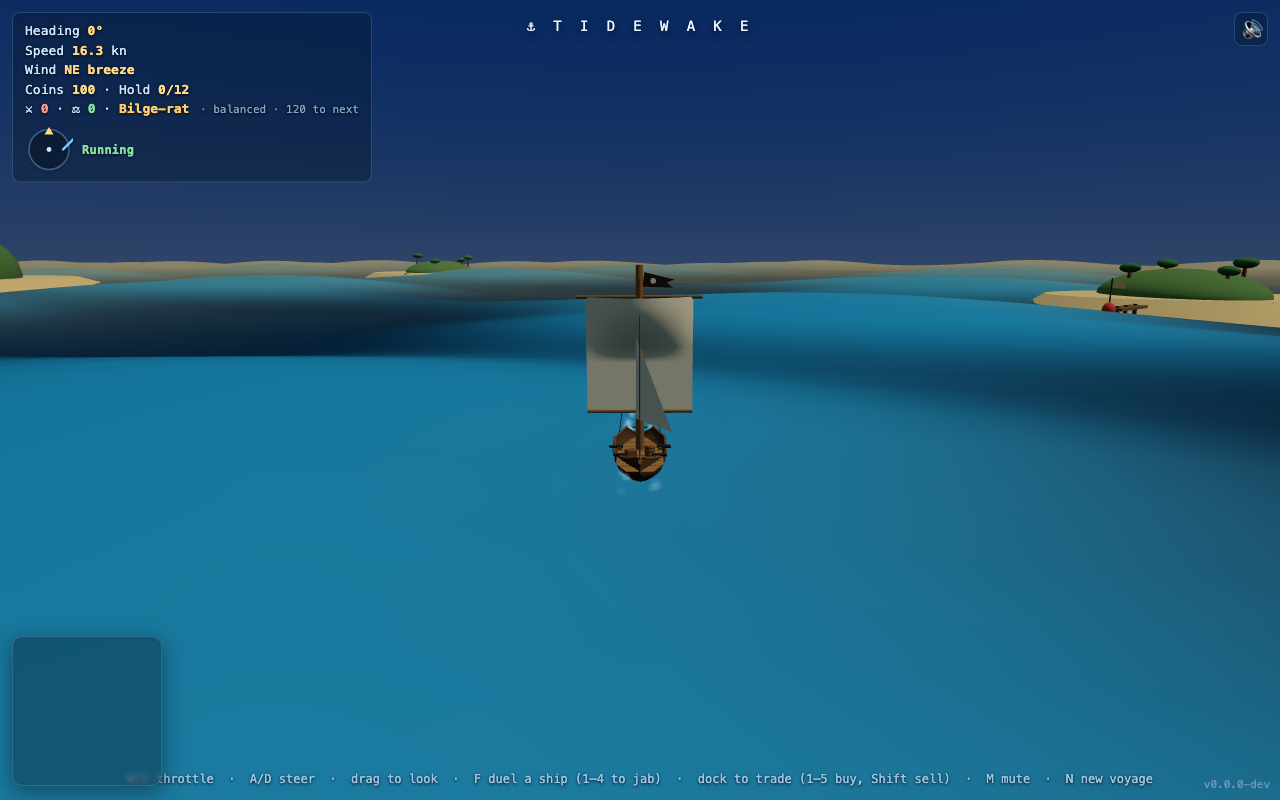
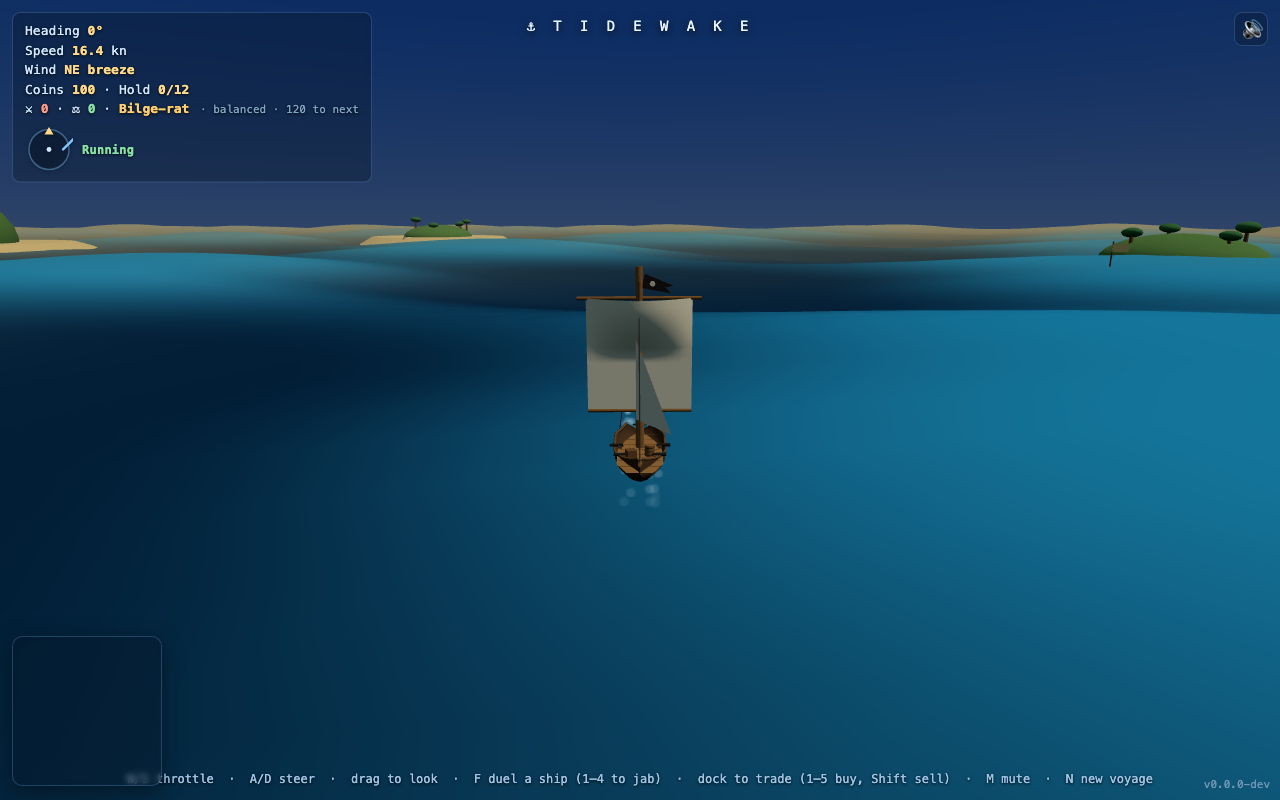
feat(progression): endgame legends — crown THE Terror / THE Governor (#46)
The payoff of the two-pole renown arc: cross the top rung of a committed
pole and you are crowned a one-time LEGEND with a celebratory full-screen
beat — THE Terror of the Tidewake (feared) or THE Governor of the Tidewake
(respected). A balanced summit earns neither until you lean; earn both
crowns over a voyage for a true Legend of the Tidewake. The sandbox keeps
sailing after — a milestone, not a game-over.

- renown.js: pure earnedLegend(infamy, standing) + LEGEND_AT + LEGENDS data
- save.js: SAVE_VERSION 5 persists the {pirate, governor} crowns; old saves
  default to none; junk legends fail open
- sailing.js: restore/reset wire the crowns
- main.js: per-frame detection fires the beat once per newly-earned crown,
  locks it into the save, exposes state.legends on the __tidewake hook
- hud.js + index.html: the proclamation overlay + a persistent corner badge

Closes #46

diff --git a/src/renown.js b/src/renown.js
@@ -7,10 +7,12 @@
 // on the ladder; the *dominant pole* picks which titles that rung reads (piratical vs
 // civic), and how harbourmasters react when you make port (feared vs respected).
 //
-// ENDGAME SEAM (not built yet): the very top of each pole is the fantasy's payoff —
-// become THE feared pirate (Terror of the Tidewake) or THE respected governor (Governor
-// of the Tidewake). A future slice can turn those top rungs into real milestone events
-// (a coronation / a bounty, a win-state). For now they're just the proudest titles.
+// ENDGAME (#46): the very top of each pole IS the fantasy's payoff — become THE feared
+// pirate (Terror of the Tidewake) or THE respected governor (Governor of the Tidewake).
+// Crossing the top rung of a committed pole crowns a one-time LEGEND (earnedLegend +
+// LEGENDS below); main.js fires a celebratory beat and the save remembers it. The world
+// keeps sailing after — a legend milestone, not a game-over. FUTURE: deeper endings could
+// branch off a legend (e.g. a governorship of a *specific* city, a named bounty arc).
 
 // The ladder. Thresholds are lifetime-renown (= infamy + standing) gates; the RANKS
 // titles are the canonical spine kept for back-compat. Per-pole titles live in LADDERS
@@ -212,6 +214,60 @@ export function greetPlayer(renown, portName, rnd = Math.random, pole = 'neutral
   const title = ladder[index] || ladder[ladder.length - 1];
   const line = pool[Math.floor(rnd() * pool.length) % pool.length] || pool[0];
   return line.replace(/\{port\}/g, portName).replace(/\{title\}/g, title);
+}
+
+// ---- Endgame legends: the payoff of the two-pole arc (#46) ------------------
+// The very top rung of the ladder is the summit of legend. Reach it while COMMITTED to a
+// pole (the dominant pole picks WHICH crown) and you become THE one: the feared Terror or
+// the respected Governor of the Tidewake. A balanced captain sits at the neutral summit
+// ("Legend of the Tidewake") but earns neither single crown until they lean — earn BOTH
+// crowns across a voyage and you are, fittingly, a true Legend of the Tidewake.
+
+// Lifetime-renown gate for a legend: the top rung's threshold (= infamy + standing).
+export const LEGEND_AT = RANKS[RANKS.length - 1].at;
+
+// The two crowns — each the top of its pole ladder, with a believable proclamation and a
+// wink of comedy. Original to Tidewake. main.js/hud.js read these for the celebration beat.
+export const LEGENDS = {
+  pirate: {
+    title: 'Terror of the Tidewake',
+    icon: '⚔',
+    proclaim: 'Feared in every port from here to the horizon.',
+    flourish: 'Mothers now name storms after you. The storms are flattered.',
+  },
+  governor: {
+    title: 'Governor of the Tidewake',
+    icon: '⚖',
+    proclaim: 'The isles, with one voice, proclaim you their own.',
+    flourish: 'A commemorative biscuit has been struck in your honour — and is, by all accounts, edible.',
+  },
+};
+
+/**
+ * The celebration data for a freshly-earned legend, or null for an unknown pole.
+ * @param {'pirate'|'governor'} which
+ * @returns {{title:string, icon:string, proclaim:string, flourish:string} | null}
+ */
+export function legendBeat(which) {
+  return LEGENDS[which] || null;
+}
+
+/**
+ * Which legend(s) a ledger qualifies for RIGHT NOW. A point-in-time check: at any instant
+ * the dominant pole crowns at most one, so the caller ORs the result into a persistent
+ * flags object to accumulate both crowns over a voyage. Pure + junk-safe.
+ * @param {number} infamy   pirate-path score
+ * @param {number} standing governor-path score
+ * @returns {{pirate:boolean, governor:boolean}}
+ */
+export function earnedLegend(infamy, standing) {
+  const i = poleScore(infamy), s = poleScore(standing);
+  const atTop = (i + s) >= LEGEND_AT;
+  const pole = dominantPole(i, s);
+  return {
+    pirate: atTop && pole === 'pirate',
+    governor: atTop && pole === 'governor',
+  };
 }
 
 /**

diff --git a/src/hud.js b/src/hud.js
@@ -5,7 +5,7 @@
 import { pointOfSail } from './physics.js';
 import { VERSION } from './version.js';
 import { GOODS, PORTS, HOLD_CAP, market, buy, sell, cargoUsed } from './economy.js';
-import { rankForRenown, renownTier, titleFor, dominantPole } from './renown.js';
+import { rankForRenown, renownTier, titleFor, dominantPole, legendBeat } from './renown.js';
 
 const RAD2DEG = 180 / Math.PI;
 
@@ -25,6 +25,8 @@ export function createHud() {
   const $trade = document.getElementById('trade');
   const $duel = document.getElementById('duel');
   const $prompt = document.getElementById('challenge-prompt');
+  const $legend = document.getElementById('legend');
+  const $legendBadge = document.getElementById('legend-badge');
   document.getElementById('version').textContent = VERSION;
 
   let lastPosLabel = '', lastPosBand = '';
@@ -218,9 +220,65 @@ export function createHud() {
     toastTimer = setTimeout(() => { $toast.classList.remove('show'); $toast.classList.remove('rankup'); }, 5000);
   }
 
+  // ---- Endgame legend overlay (#46) -----------------------------------------
+  // The payoff beat: a near-full-screen proclamation crowning the player THE Terror /
+  // THE Governor — believable grandeur with a wink of comedy. Fired once per newly-earned
+  // crown; the sandbox keeps playing beneath it. Dismiss with any key (or it fades on its
+  // own). A persistent corner badge then remembers the crown.
+  let legendTimer = null;
+  function hideLegend() {
+    if (!$legend) return;
+    $legend.classList.remove('show');
+    if (legendTimer) { clearTimeout(legendTimer); legendTimer = null; }
+  }
+  function showLegend(pole, stats = {}) {
+    const beat = legendBeat(pole);
+    if (!$legend || !beat) return;
+    const crown = `${beat.icon} You are now THE ${beat.title.toUpperCase()}`;
+    const both = stats.both
+      ? '<div class="legend-both">⚔⚖ Feared AND respected — a true Legend of the Tidewake. The bards have simply given up keeping score.</div>'
+      : '';
+    $legend.innerHTML =
+      `<div class="legend-card">`
+      + `<div class="legend-kicker">A LEGEND IS MADE</div>`
+      + `<div class="legend-title">${crown}</div>`
+      + `<div class="legend-proclaim">${beat.proclaim}</div>`
+      + `<div class="legend-flourish">${beat.flourish}</div>`
+      + both
+      + `<div class="legend-stats">⚔ Infamy ${stats.infamy ?? 0} · ⚖ Standing ${stats.standing ?? 0} · ★ Renown ${stats.renown ?? 0} · ⛃ ${stats.coins ?? 0}c · ${stats.title || beat.title}</div>`
+      + `<div class="legend-help">The sea is still yours — press <b>any key</b> to sail on, or <b>N</b> for a new voyage</div>`
+      + `</div>`;
+    $legend.classList.add('show');
+    if (legendTimer) clearTimeout(legendTimer);
+    legendTimer = setTimeout(hideLegend, 12000);
+  }
+  if (typeof window !== 'undefined' && window.addEventListener) {
+    window.addEventListener('keydown', () => { if ($legend && $legend.classList.contains('show')) hideLegend(); });
+  }
+
+  // Persistent corner badge: once a crown is earned it stays shown in the HUD.
+  let lastBadgeSig = '';
+  function renderLegendBadge(state) {
+    if (!$legendBadge) return;
+    const lg = state.legends || {};
+    const earned = [];
+    if (lg.pirate) earned.push(legendBeat('pirate'));
+    if (lg.governor) earned.push(legendBeat('governor'));
+    const sig = earned.map((e) => e.title).join('+');
+    if (sig === lastBadgeSig) return;
+    lastBadgeSig = sig;
+    if (!earned.length) { $legendBadge.classList.remove('show'); $legendBadge.textContent = ''; return; }
+    const label = earned.length === 2
+      ? '★ Legend of the Tidewake'
+      : `${earned[0].icon} Legend: ${earned[0].title}`;
+    $legendBadge.textContent = label;
+    $legendBadge.classList.add('show');
+  }
+
   function update(state, maxSpeed) {
     liveState = state;
     renderPurse(state);
+    renderLegendBadge(state);
     renderTrade(state);
 
     let deg = Math.round((state.heading * 180 / Math.PI) % 360); if (deg < 0) deg += 360;
@@ -235,5 +293,5 @@ export function createHud() {
     if (sail.band !== lastPosBand) { $pos.className = 'pos-' + sail.band; lastPosBand = sail.band; }
   }
 
-  return { update, showArrival, setWind, renderDuel, flashBanner };
+  return { update, showArrival, setWind, renderDuel, flashBanner, showLegend };
 }

diff --git a/index.html b/index.html
@@ -27,6 +27,39 @@
     #ledger #rankprog { color: #7fa6c6; font-size: 11px; margin-left: 4px; }
     #toast.rankup { border-color: rgba(135,224,164,.6); }
     #toast.rankup .toast-title { color: #9be8b0; }
+    #legend-badge {
+      margin-top: 6px; display: none; font-size: 11px; letter-spacing: .03em;
+      color: #2a1d06; background: linear-gradient(90deg, #ffe08a, #ffc24d);
+      border: 1px solid rgba(255,233,160,.8); border-radius: 6px; padding: 2px 8px;
+      font-weight: 700; box-shadow: 0 1px 6px rgba(0,0,0,.35); width: fit-content;
+    }
+    #legend-badge.show { display: block; }
+    #legend {
+      position: fixed; inset: 0; z-index: 30; display: grid; place-items: center;
+      pointer-events: none; text-align: center; padding: 24px;
+      background: radial-gradient(circle at 50% 42%, rgba(20,44,66,.78), rgba(6,16,26,.92) 75%);
+      opacity: 0; transition: opacity .5s ease;
+    }
+    #legend.show { opacity: 1; }
+    #legend .legend-card {
+      max-width: min(92vw, 620px);
+      background: rgba(9, 22, 36, .72); border: 1px solid rgba(255,217,138,.55);
+      border-radius: 16px; padding: 28px 32px; backdrop-filter: blur(6px);
+      box-shadow: 0 18px 60px rgba(0,0,0,.6), 0 0 0 1px rgba(255,217,138,.15) inset;
+      transform: translateY(10px) scale(.98); transition: transform .5s ease;
+    }
+    #legend.show .legend-card { transform: translateY(0) scale(1); }
+    #legend .legend-kicker { color: #ffd98a; letter-spacing: .5em; font-size: 11px; opacity: .85; }
+    #legend .legend-title {
+      margin-top: 10px; color: #fff3d4; font-size: clamp(20px, 3.4vw, 32px); font-weight: 800;
+      letter-spacing: .04em; line-height: 1.2; text-shadow: 0 2px 18px rgba(255,200,110,.45);
+    }
+    #legend .legend-proclaim { margin-top: 12px; color: #eaf6ff; font-size: 15px; font-style: italic; line-height: 1.5; }
+    #legend .legend-flourish { margin-top: 10px; color: #bcd5ea; font-size: 13px; line-height: 1.5; }
+    #legend .legend-both { margin-top: 12px; color: #9be8b0; font-size: 13px; line-height: 1.5; font-weight: 600; }
+    #legend .legend-stats { margin-top: 16px; color: #ffd98a; font-size: 12px; letter-spacing: .02em; }
+    #legend .legend-help { margin-top: 16px; color: #9fc4e6; font-size: 12px; }
+    #legend .legend-help b { color: #ffd98a; }
     #windrose { display: flex; align-items: center; gap: 9px; margin-top: 7px; }
     #windrose svg { display: block; filter: drop-shadow(0 1px 2px rgba(0,0,0,.6)); }
     #pos { font-size: 12px; font-weight: 600; letter-spacing: .02em; transition: color .3s ease; }
@@ -146,6 +179,7 @@
     <div>Wind <b><span id="wind">—</span></b></div>
     <div>Coins <b><span id="coins">100</span></b> · Hold <b><span id="cargo">0/12</span></b></div>
     <div id="ledger" title="⚔ Infamy (pirate path) · ⚖ Standing (governor path)">⚔ <b><span id="infamy">0</span></b> · ⚖ <b><span id="standing">0</span></b> · <b><span id="rank">Bilge-rat</span></b><span id="rankprog"></span></div>
+    <div id="legend-badge" role="status"></div>
     <div id="windrose">
       <svg width="48" height="48" viewBox="0 0 48 48" aria-label="Wind relative to ship">
         <circle cx="24" cy="24" r="20" fill="rgba(7,22,38,.35)" stroke="rgba(120,180,230,.45)" stroke-width="1.5" />
@@ -165,6 +199,7 @@
   <div id="challenge-prompt" role="status">⚔ Press <b>F</b> to hail and duel</div>
   <div id="duel" role="dialog" aria-live="polite"></div>
   <div id="toast" role="status" aria-live="polite"></div>
+  <div id="legend" role="dialog" aria-live="polite"></div>
   <canvas id="minimap" width="150" height="150" aria-label="Minimap of nearby islands, ports and ships"></canvas>
   <button id="audio-toggle" type="button" aria-pressed="false" aria-label="Mute" title="Mute (m)">🔊</button>
   <div id="help">W/S throttle &nbsp;·&nbsp; A/D steer &nbsp;·&nbsp; drag to look &nbsp;·&nbsp; F duel a ship (1–4 to jab) &nbsp;·&nbsp; dock to trade (1–5 buy, Shift sell) &nbsp;·&nbsp; M mute &nbsp;·&nbsp; N new voyage</div>

diff --git a/src/main.js b/src/main.js
@@ -15,7 +15,7 @@ import { createPersistence } from './persistence.js';
 import { createDuel } from './duel.js';
 import { initEconomy, syncRenown } from './economy.js';
 import { VERSION } from './version.js';
-import { greetPlayer, dominantPole, titleFor } from './renown.js';
+import { greetPlayer, dominantPole, titleFor, earnedLegend } from './renown.js';
 
 // main.js is a thin bootstrap: it builds the renderer/scene/camera/lights, spins up
 // the world + game systems (input, sailing, hud, ports, wake, audio, persistence),
@@ -133,10 +133,35 @@ function update(dt, t) {
   ports.update(state, hud.showArrival, t);     // arrival detection (fires once) + buoy bob
   wake.update(dt, state, t);                   // bow wake + trailing foam
   hud.update(state, sailing.MAX_SPEED);        // heading/speed/wind compass/point-of-sail
+  checkLegends();                              // endgame payoff: crown a new legend once (#46)
   minimap.update(state);                       // north-up radar: isles/ports/ships (#16)
   hud.renderDuel(duel.snapshot());             // insult-duel panel + "hail" prompt (#33)
   audio.update({ speed: state.speed, maxSpeed: sailing.MAX_SPEED });
   music.update({ speed: state.speed, maxSpeed: sailing.MAX_SPEED });
+}
+
+// Endgame legends (#46): each frame, see if the ledger has just crossed the top of a
+// committed pole. The first time it does, crown the player THE Terror / THE Governor with
+// a one-time celebratory overlay, lock the crown into the save, and sail on (sandbox
+// continues — this is a milestone, not a game-over). Earn both, over a voyage, for a true
+// Legend of the Tidewake.
+function checkLegends() {
+  const legends = state.legends || (state.legends = { pirate: false, governor: false });
+  const earned = earnedLegend(state.infamy ?? 0, state.standing ?? 0);
+  for (const pole of ['pirate', 'governor']) {
+    if (earned[pole] && !legends[pole]) {
+      legends[pole] = true;
+      hud.showLegend(pole, {
+        infamy: state.infamy ?? 0,
+        standing: state.standing ?? 0,
+        renown: state.renown ?? ((state.infamy ?? 0) + (state.standing ?? 0)),
+        coins: state.coins ?? 0,
+        title: titleFor(state.infamy ?? 0, state.standing ?? 0).title,
+        both: legends.pirate && legends.governor,
+      });
+      persistence.write(); // lock the legend in the moment it's earned
+    }
+  }
 }
 
 let simT = 0;
@@ -171,6 +196,8 @@ window.__tidewake = {
       infamy, standing, renown: state.renown ?? (infamy + standing),
       title: titleFor(infamy, standing).title,
       pole: dominantPole(infamy, standing),
+      // Endgame crowns (#46): which legends this voyage has earned.
+      legends: { pirate: !!state.legends?.pirate, governor: !!state.legends?.governor },
     };
   },
   get ports() { return ports.ports; },

diff --git a/src/save.js b/src/save.js
@@ -17,9 +17,10 @@ import { GOODS, HOLD_CAP, START_COINS } from './economy.js';
 
 export const SAVE_KEY = 'tidewake.save.v1';
 // v2 added the economy fields (coins + cargo); v3 added renown (the Captain's Ledger);
-// v4 split renown into two poles — infamy (pirate) + standing (governor) (#45).
+// v4 split renown into two poles — infamy (pirate) + standing (governor) (#45); v5 added
+// the earned endgame legends ({pirate, governor} crowns, #46).
 // Older saves fail the version gate and fall back to a fresh voyage rather than crashing.
-export const SAVE_VERSION = 4;
+export const SAVE_VERSION = 5;
 
 // The set of canonical cargo keys we'll accept back from storage. Anything else is
 // treated as corrupt — cargo keys are a single source of truth in economy.js.
@@ -68,6 +69,10 @@ export function serialize(state) {
   // pre-pole caller. Renown is derived (infamy + standing) on load, so it isn't stored.
   const infamy = isFiniteNumber(state.infamy) && state.infamy >= 0 ? state.infamy : 0;
   const standing = isFiniteNumber(state.standing) && state.standing >= 0 ? state.standing : 0;
+  // Endgame legends (#46): the earned crowns. Plain booleans, coerced; a pre-legend
+  // caller (no `legends`) simply records none earned.
+  const lg = state.legends || {};
+  const legends = { pirate: !!lg.pirate, governor: !!lg.governor };
   return JSON.stringify({
     v: SAVE_VERSION,
     heading: state.heading,
@@ -78,6 +83,7 @@ export function serialize(state) {
     cargo: cleanCargoForSave(state.cargo),
     infamy,
     standing,
+    legends,
   });
 }
 
@@ -142,6 +148,12 @@ export function deserialize(raw) {
     standing = obj.standing;
   }
 
+  // Endgame legends (save v5): the earned crowns, coerced to safe booleans. Absent or
+  // malformed → none earned; a junk `legends` never rejects an otherwise-valid save (the
+  // legend is a celebration flag, not load-bearing physics — fail open, not closed).
+  const lg = (obj.legends && typeof obj.legends === 'object' && !Array.isArray(obj.legends)) ? obj.legends : {};
+  const legends = { pirate: !!lg.pirate, governor: !!lg.governor };
+
   return {
     heading,
     speed: Math.max(0, speed),
@@ -151,6 +163,7 @@ export function deserialize(raw) {
     cargo: cleanCargo,
     infamy,
     standing,
+    legends,
     renown: infamy + standing, // derived spine, for any caller that still reads it
   };
 }

diff --git a/src/sailing.js b/src/sailing.js
@@ -32,6 +32,11 @@ export function createSailing({ ship, ocean, camera, input }) {
     if (typeof saved.infamy === 'number') state.infamy = saved.infamy;
     if (typeof saved.standing === 'number') state.standing = saved.standing;
     state.renown = (state.infamy || 0) + (state.standing || 0);
+    // Endgame legends (persisted since save v5): the earned crowns, so a restored voyage
+    // keeps its badge and never re-fires a celebration it already had (#46).
+    if (saved.legends && typeof saved.legends === 'object') {
+      state.legends = { pirate: !!saved.legends.pirate, governor: !!saved.legends.governor };
+    }
   }
 
   // Respawn at the origin, dead in the water. Clear economy so initEconomy re-seeds defaults.
@@ -40,6 +45,7 @@ export function createSailing({ ship, ocean, camera, input }) {
     state.pos.set(0, 0, 0);
     delete state.coins; delete state.cargo;
     delete state.infamy; delete state.standing; delete state.renown;
+    delete state.legends; // a new voyage starts legend-less; the crowns are yet to earn
   }
 
   function step(dt, t) {